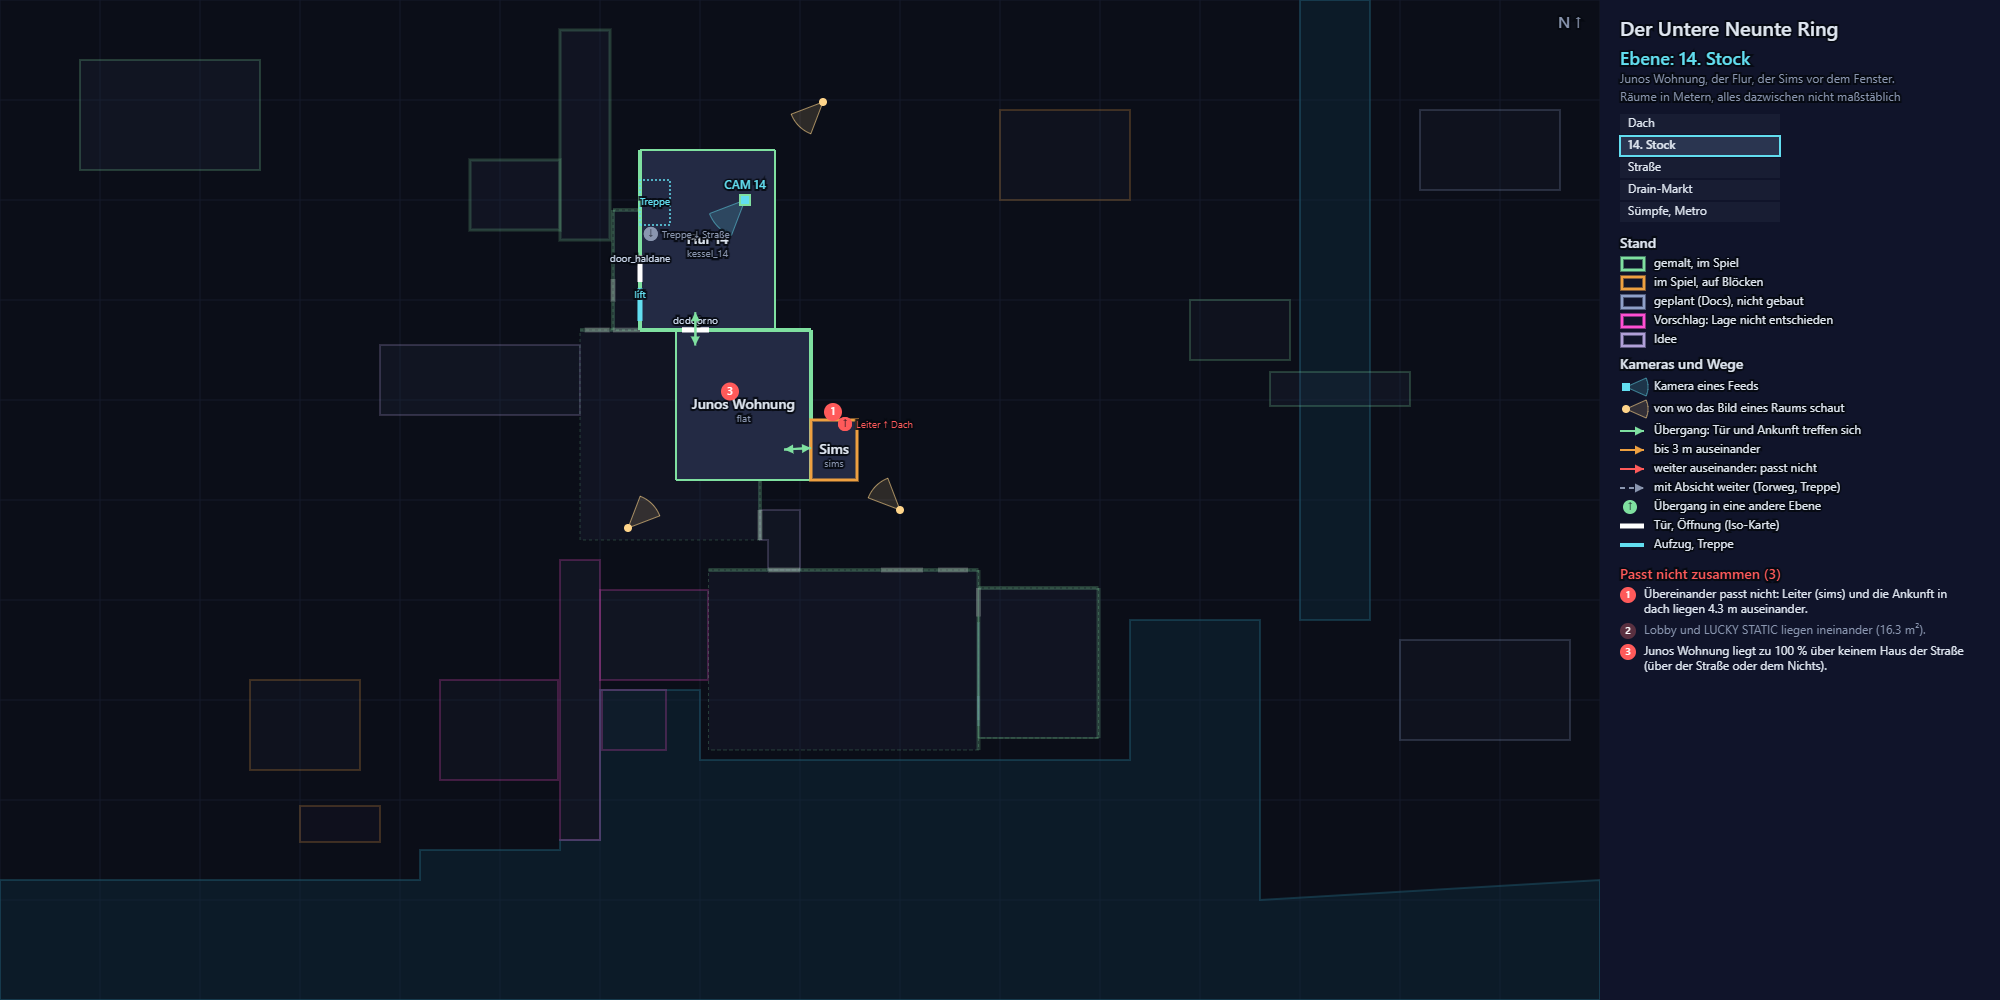
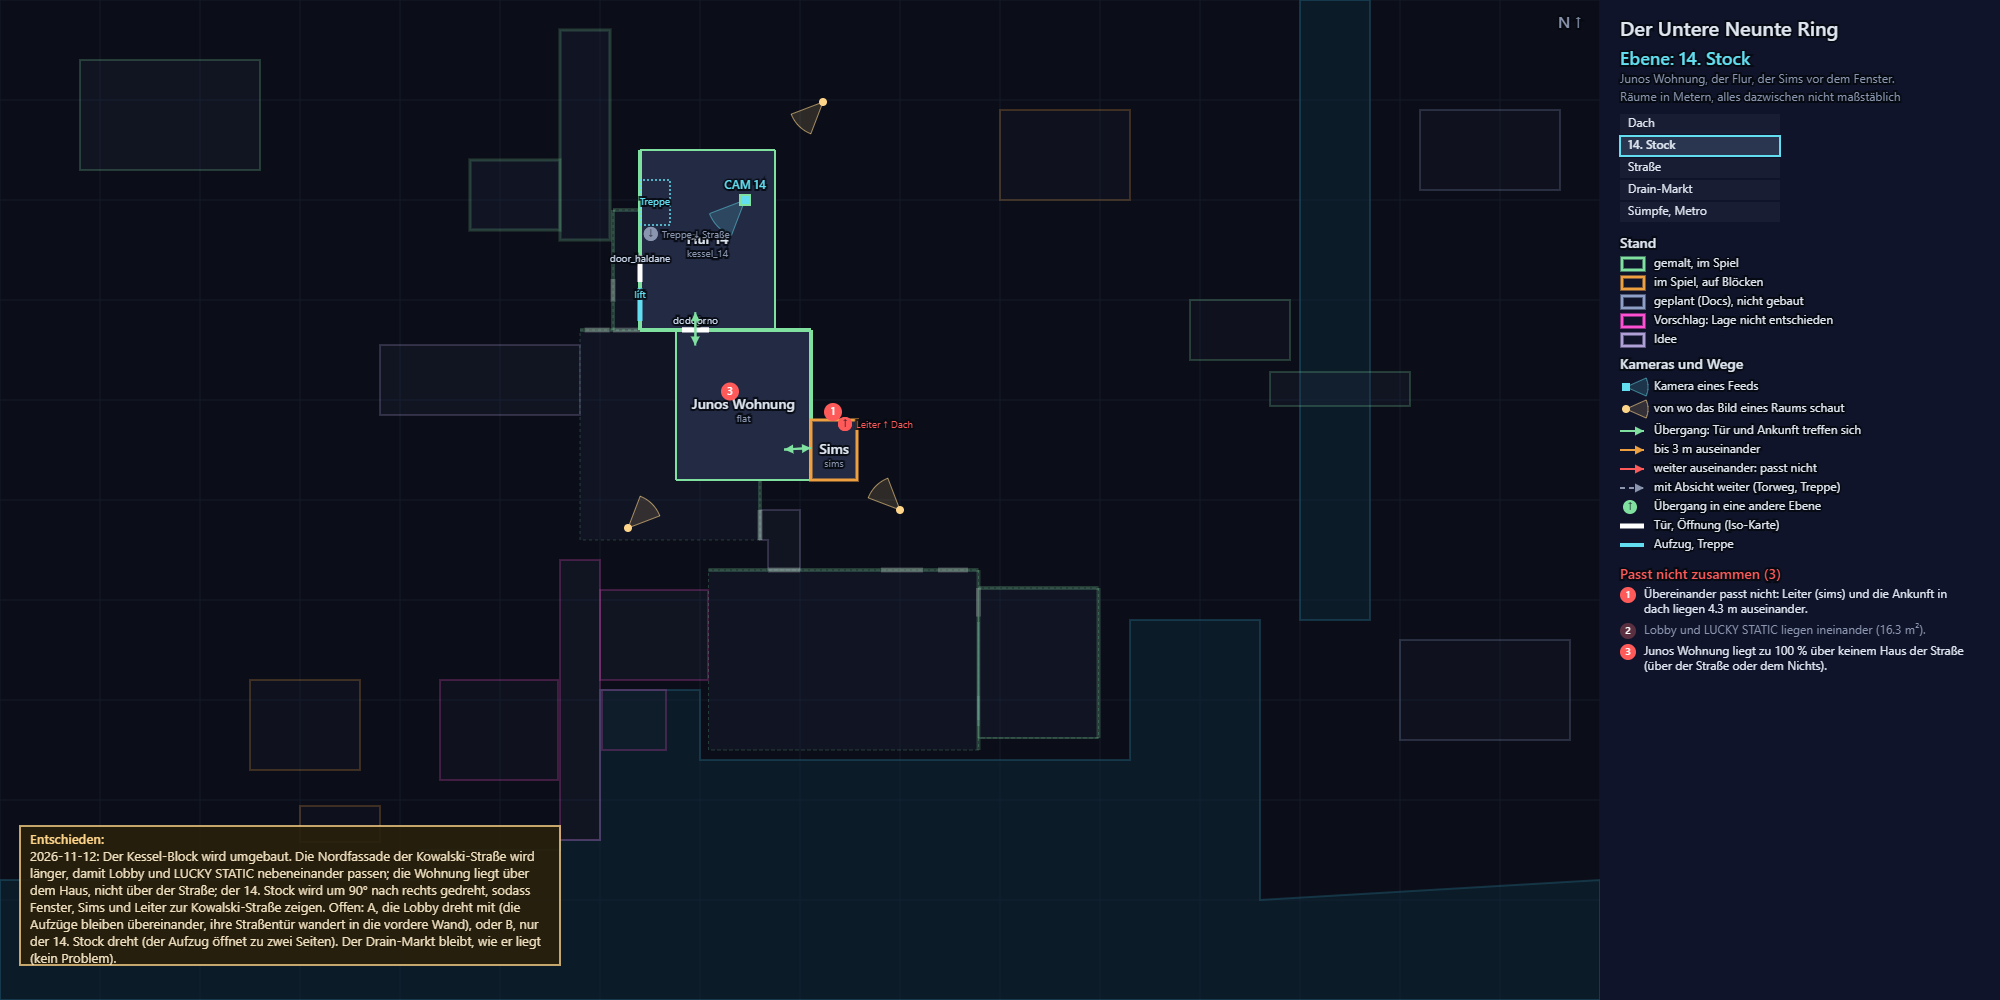
The decisions of today written down. docs/kapitel1-design.md: CAM 21's blocks decided, variant B of two (the camera on a bracket over the canopy's front edge, 5 m up, 30° down, turned right so the queue runs across the picture; the clinic's floodlight, the belt posts, the white pylon with Nagi·wa's 

Changed region(s): [[0.0, 0.806, 0.279, 0.992]]

diff --git a/docs/plan/stadtplan.js b/docs/plan/stadtplan.js
@@ -153,6 +153,8 @@ var STADTPLAN = {
     { id: "frei_ost", kind: "free", name: "frei", rect: [880, 230, 260, 80] },
 
     // ================================================================ Notizen
+    { id: "n_kessel", kind: "note", name: "Entschieden", level: "k14", at: [20, 840],
+      note: "2026-11-12: Der Kessel-Block wird umgebaut. Die Nordfassade der Kowalski-Straße wird länger, damit Lobby und LUCKY STATIC nebeneinander passen; die Wohnung liegt über dem Haus, nicht über der Straße; der 14. Stock wird um 90° nach rechts gedreht, sodass Fenster, Sims und Leiter zur Kowalski-Straße zeigen. Offen: A, die Lobby dreht mit (die Aufzüge bleiben übereinander, ihre Straßentür wandert in die vordere Wand), oder B, nur der 14. Stock dreht (der Aufzug öffnet zu zwei Seiten). Der Drain-Markt bleibt, wie er liegt (kein Problem)." },
     { id: "n_ines", kind: "note", name: "Offen", at: [20, 912],
       note: "Klinik, Pho Pump und Querstraße: Lage vorgeschlagen, nicht entschieden. Ines' Weg: Klinik 19:00, Pho Pump 19:15, Waschsalon 20:00, nach Hause 20:30, Sumpf-Abgang (Do 20:15, Fr 22:30), Metro 31 Fr 23:00." },
   ],

diff --git a/docs/kapitel1-design.md b/docs/kapitel1-design.md
@@ -344,7 +344,7 @@ Live-Übertragung.“ 750 Chits, die zweite Zeile im Kassenbuch. Es schreibt sic
 | `cam30` | Sumpf-Abgang | eine Treppe ins Wasser, ein Schild „LINE 31 – CLOSED", daneben eine Pegeltafel (`LOW TIDE`, `FRI 23:00`) | Junos alter Zugang |
 | `cam31` | alte Metro, Linie 31 | Bahnsteig unter Wasser, Notlicht | nur über das alte Protokoll; körniger als alle anderen |
 
-**Die Einstellungen der Kameras** (die Richtung entschieden 2026-11-09; jede wird mit ihrem Ort skizziert und erst nach Freigabe gemalt): Keine Kamera schaut mehr frontal und flach. ~~`cam07` hoch und steil die Gasse hinunter, ein Kabelbündel und eine Laterne quer im Vordergrund; `cam07v` ein starkes Fischauge auf Hüfthöhe, der Coupon-Rahmen des Automaten im Bild, Beine von Passanten ganz nah~~ (ersetzt am selben Tag: ein Ort, ein Bild; `cam07` ist Jade Row, `cam07v` Okonkwos Laden); `cam15` die Zentralperspektive einen langen Gang hinunter, Kapseln zweistöckig, Kessler geht von uns weg; `cam18` senkrecht von oben, von der Laterne über der Treppe (Frau Imais „als hinge ich an einer Laterne“; **entschieden 2026-11-09**, die Variante C von dreien in `art/mockups/cam18_study.px.js`; **gemalt** in `art/cams/cam18.px.js`, die Blöcke freigegeben am selben Tag, aus einem Aufbau in Metern wie die anderen Kameras, 12 m hoch und leicht schief): oben der nasse Platz, die Treppe hinunter zu den Planen des Markts, über die Stufen ein großer Fisch gemalt, verblasst und von jeder Stufenkante zerschnitten, **ganz nur von oben zu sehen**: Wer ihn als Fisch gesehen hat, hat ihn von dieser Kamera aus gesehen; in der Ecke unscharf der Arm der Laterne, Regen von links, weil die Kamera schief hängt (die Zeilen dazu sind Vorschläge: Imai sagt „Da ist eine Treppe, und auf den Stufen ist ein großer Fisch. Es regnet von links.“, Juno im Archiv „Und den ganzen Fisch sieht man nur von hier oben.“; der ganze Strang in ganzen Sätzen, dialog-style-guide §3); `cam21` über der Klinik-Tür nach draußen, die Schlange kommt auf uns zu; `cam22` hinter der Theke über die Schulter des Kochs, Dampf im Vordergrund, Ines uns gegenüber; ~~`cam23` senkrecht von oben, die Trommeltüren als Kreise~~ (ersetzt am selben Tag: **ein Ort, ein Bild**, kapitel0-design §3: Wo Juno hingehen kann, zeigt die Kamera genau die Szene des Straßenmodus, `cam23` also den Waschsalon in Iso); `cam24` eine Türklingel-Kamera, extremes Fischauge auf Augenhöhe; `cam30` tief am Wasser, die Treppe hinauf, Spiegelungen im Vordergrund. `cam14` bleibt das Iso-Bild des Flurs unter dem Filter.
+**Die Einstellungen der Kameras** (die Richtung entschieden 2026-11-09; jede wird mit ihrem Ort skizziert und erst nach Freigabe gemalt): Keine Kamera schaut mehr frontal und flach. ~~`cam07` hoch und steil die Gasse hinunter, ein Kabelbündel und eine Laterne quer im Vordergrund; `cam07v` ein starkes Fischauge auf Hüfthöhe, der Coupon-Rahmen des Automaten im Bild, Beine von Passanten ganz nah~~ (ersetzt am selben Tag: ein Ort, ein Bild; `cam07` ist Jade Row, `cam07v` Okonkwos Laden); `cam15` die Zentralperspektive einen langen Gang hinunter, Kapseln zweistöckig, Kessler geht von uns weg; `cam18` senkrecht von oben, von der Laterne über der Treppe (Frau Imais „als hinge ich an einer Laterne“; **entschieden 2026-11-09**, die Variante C von dreien in `art/mockups/cam18_study.px.js`; **gemalt** in `art/cams/cam18.px.js`, die Blöcke freigegeben am selben Tag, aus einem Aufbau in Metern wie die anderen Kameras, 12 m hoch und leicht schief): oben der nasse Platz, die Treppe hinunter zu den Planen des Markts, über die Stufen ein großer Fisch gemalt, verblasst und von jeder Stufenkante zerschnitten, **ganz nur von oben zu sehen**: Wer ihn als Fisch gesehen hat, hat ihn von dieser Kamera aus gesehen; in der Ecke unscharf der Arm der Laterne, Regen von links, weil die Kamera schief hängt (die Zeilen dazu sind Vorschläge: Imai sagt „Da ist eine Treppe, und auf den Stufen ist ein großer Fisch. Es regnet von links.“, Juno im Archiv „Und den ganzen Fisch sieht man nur von hier oben.“; der ganze Strang in ganzen Sätzen, dialog-style-guide §3); `cam21` über der Klinik-Tür nach draußen, die Schlange kommt auf uns zu (**die Blöcke entschieden 2026-11-12**, Variante B von zweien in `docs/cams/cam21_blocks_vergleich_x3.png`, `art/mockups/cam21_blocks.px.js`: die Kamera an einem Ausleger über der Vorderkante des Vordachs, 5 m hoch, 30° nach unten, nach rechts gedreht, sodass die Schlange schräg durchs Bild läuft; das kalte Flutlicht der Klinik als weißer Fleck auf dem Pflaster, Absperrpfosten, eine weiße Säule mit Nagi·was Ring; über die nasse Gasse Pho Pump mit beleuchtetem Fenster, der großen Speisekarte darin, 17x15 px zum Klicken, und dem Schild darüber; die Läden daneben mit Rollläden; die Leute 22 bis 26 px wie die Feed-Figuren; Ines kommt um 19:00 unten unter der Kamera heraus und geht nach links weg. Wo die Klinik liegt, ist ein Vorschlag im Stadtplan, `docs/plan/`: an einer Querstraße am Westende der Gasse, Pho Pump gegenüber); `cam22` hinter der Theke über die Schulter des Kochs, Dampf im Vordergrund, Ines uns gegenüber; ~~`cam23` senkrecht von oben, die Trommeltüren als Kreise~~ (ersetzt am selben Tag: **ein Ort, ein Bild**, kapitel0-design §3: Wo Juno hingehen kann, zeigt die Kamera genau die Szene des Straßenmodus, `cam23` also den Waschsalon in Iso); `cam24` eine Türklingel-Kamera, extremes Fischauge auf Augenhöhe; `cam30` tief am Wasser, die Treppe hinauf, Spiegelungen im Vordergrund. `cam14` bleibt das Iso-Bild des Flurs unter dem Filter.
 
 ### Wege und Zeit
 
